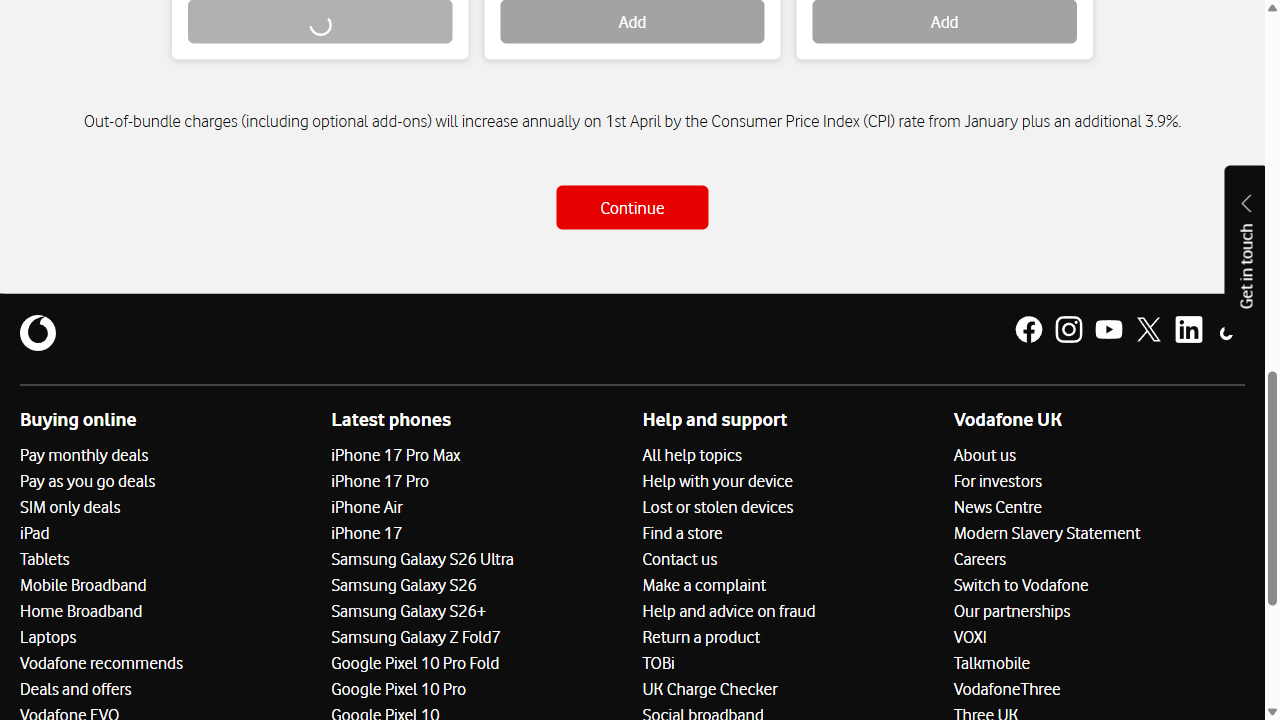
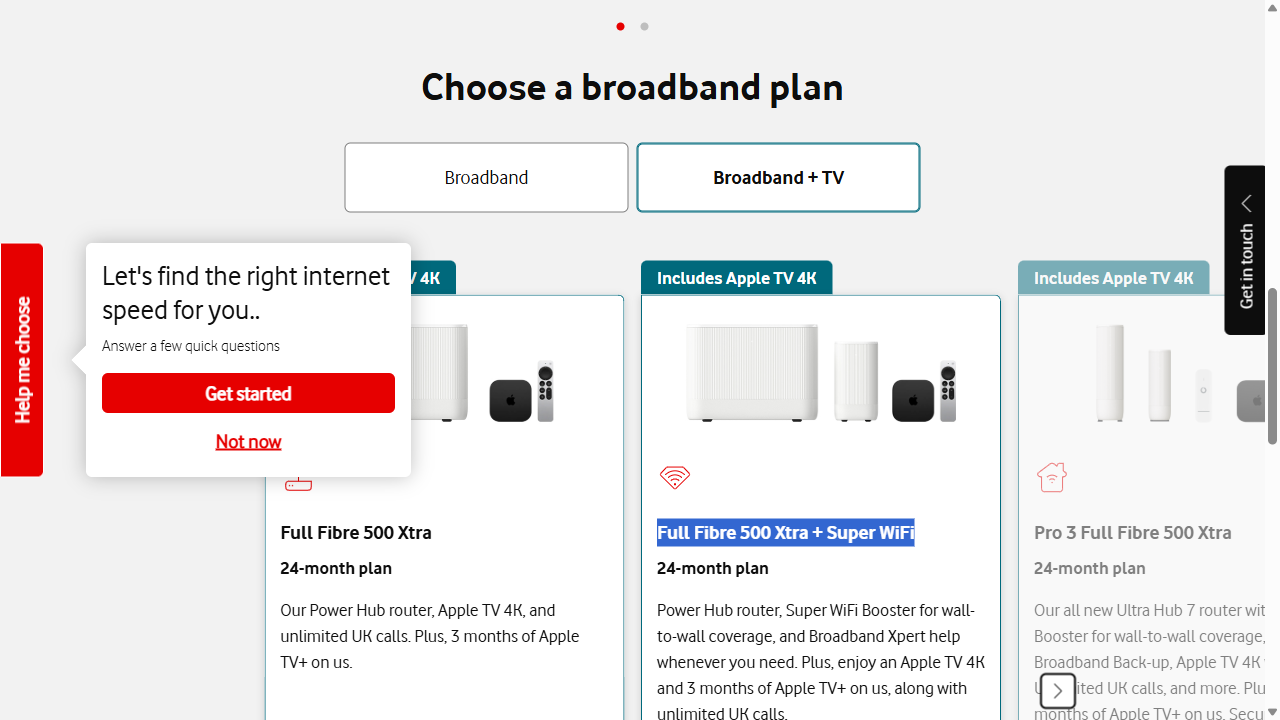
hardware validations

diff --git a/pageobject/basket_page.py b/pageobject/basket_page.py
@@ -1,0 +1,39 @@
+from playwright.sync_api import Page, expect
+
+from utils.test_data_loader import get_test_data
+from utils.locator_loader import get_locator
+
+
+class BasketPage:
+    data = get_test_data("FTTP_TC_Acq")
+
+    def __init__(self, page: Page):
+        self.page = page
+
+    def plan_validation(self):
+        self.page.get_by_role("button").filter(has=self.page.get_by_text(self.data["planname"])).click()
+        expect(self.page.locator("h4").filter(has=self.page.get_by_text(self.data["planname"])))
+        hardwares = (self.page.locator("ul [data-component-name='ListGroup']").all_text_contents())
+        # print(hardwares)
+
+    def image_validation(self):
+        expected = [
+            "Ultra Hub with WiFi 7",
+            "Super WiFi 7",
+            "4G Broadband Back-up"
+        ]
+
+        actual = self.page.locator(
+            "div[data-selector='package-body'] picture img[alt]"
+        ).evaluate_all(
+            "(els) => [...new Set(els.map(e => e.alt))]"
+        )
+
+        assert actual == expected
+
+    def hardware_validation(self):
+        equipments = self.page.locator(get_locator("basket_page","equipments_list")).all_text_contents()
+
+        cleaned = list(dict.fromkeys([text.strip() for text in equipments if text.strip()]))
+
+        print(cleaned)

diff --git a/test_broadband_framework.py b/test_broadband_framework.py
@@ -5,6 +5,7 @@ from playwright.sync_api import Page
 
 from pageobject.addon_page import AddonPage
 from pageobject.address_page import AddressPage
+from pageobject.basket_page import BasketPage
 from pageobject.bbsetup_page import BBSetupPage
 from pageobject.landing_page import LandingPage
 from pageobject.plans_page import PlansPage
@@ -39,5 +40,10 @@ def test_new_acq_order(page: Page):
     # Broadband Setup page
     setup = BBSetupPage(page)
     setup.continue_to_basket_page()
+
+    #Basket page
+    basket = BasketPage(page)
+    basket.plan_validation()
+    basket.hardware_validation()
 
     time.sleep(2)

diff --git a/pageobject/address_page.py b/pageobject/address_page.py
@@ -13,8 +13,9 @@ class AddressPage:
 
 
     def bbl_view_broadband_plans(self):
-        self.page.locator(
-            get_locator("address_page", "address_dropdown")).select_option(self.data["housenum"])
+       # self.page.locator(
+            #get_locator("address_page", "address_dropdown")).select_option(self.data["housenum"])
+        self.page.get_by_role("combobox").select_option(self.data["housenum"])
 
         self.page.locator(get_locator("address_page", "new_land_radio_btn")).click()
         self.page.locator(get_locator("address_page", "recently_moved_radio_btn")).click()